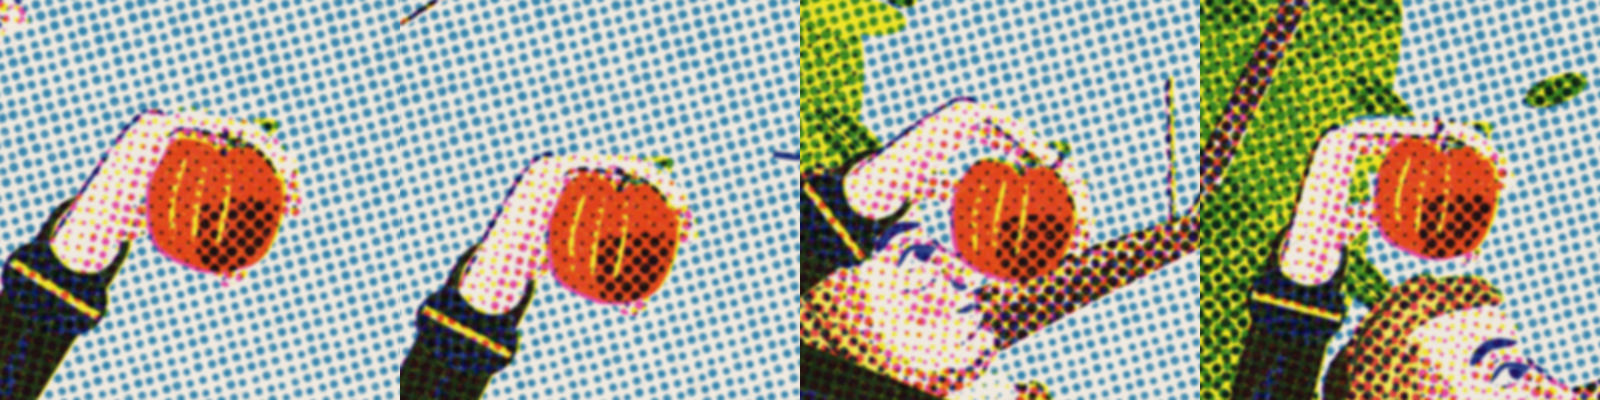
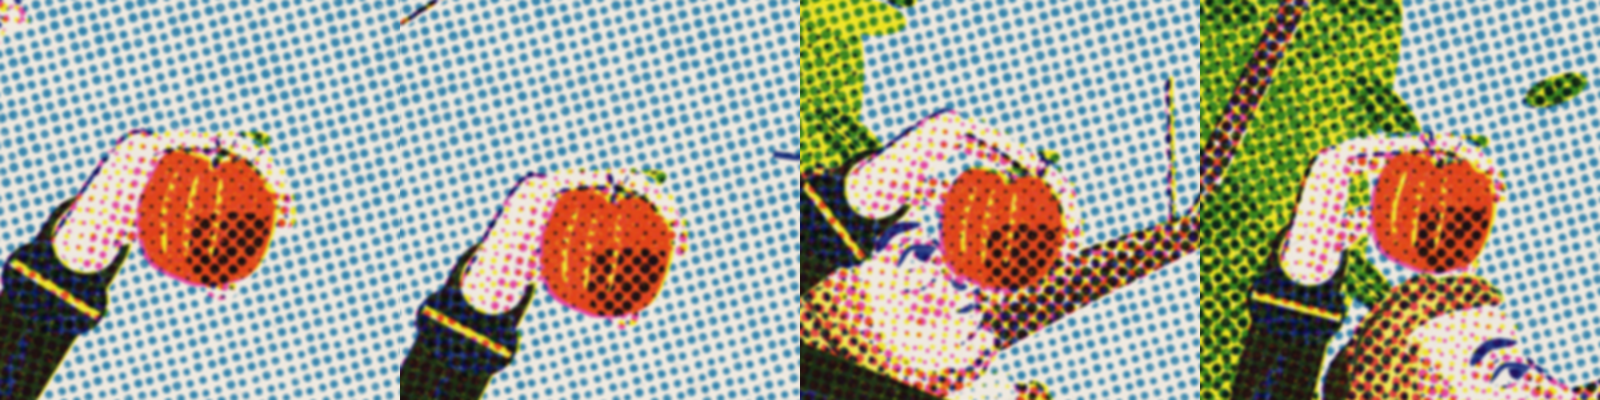
physics-history: Newton's hand a little shorter
Claude-Session: https://claude.ai/code/session_01FbC8jfwG91neyKwZD6gkGH

diff --git a/sandbox/2026-09-25-physics-history/figure.js b/sandbox/2026-09-25-physics-history/figure.js
@@ -177,10 +177,10 @@ const Fig = (() => {
         const dx = Math.cos(dir), dy = Math.sin(dir);
         let qx = -dy, qy = dx;
         if (qx * f < 0) { qx = -qx; qy = -qy; }
-        const X = (a, b) => [w[0] + (dx * a + qx * b) * R, w[1] + (dy * a + qy * b) * R];
+        const X = (a, b) => [w[0] + (dx * a * 0.84 + qx * b) * R, w[1] + (dy * a * 0.84 + qy * b) * R]; // 0.84: the hand's length (wrist to knuckle) against the apple
         const lw = Math.max(1.4, R * 0.06), EDGE = { 'pink.s': 0.7, 'navy.s': 0.55 };
         const C = [1.45, reach + 0.15];
-        const on = (t, r) => X(C[0] + Math.cos(t) * r, C[1] + Math.sin(t) * r);
+        const on = (t, r) => X(C[0] + Math.cos(t) * r / 0.84, C[1] + Math.sin(t) * r);
         const arc = (t0, t1, r, n = 12) => Array.from({ length: n + 1 }, (_, i) => on(t0 + (t1 - t0) * i / n, r));
         const dig = (P, wd, spc, edge) => {
             line(press, P, wd * R, spc);
